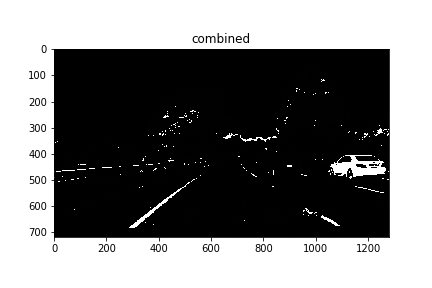
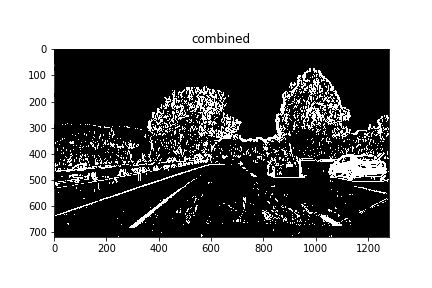
modification images in Output_image folder

diff --git a/LaneDetect.py b/LaneDetect.py
@@ -108,7 +108,7 @@ def SobelThr(img):                     # Sobel edge detection extraction
 def combinI(b1,b2):     ##Combine color threshold + Sobel edge detection
 
     combined = np.zeros_like(b1)
-    combined[((b1 == 1)|(b2 == 255)) ] = 1
+    combined[((b1 == 255)|(b2 == 1)) ] = 1
 
 
     
